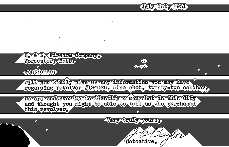
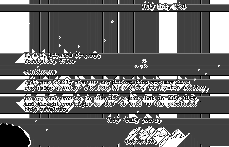
Cool horizontal/vertical overlay output
The output images look cool and show the interplay of the vertical and
horizontal seams, but it really is not useful for the algorithm, will
be removed in the next commit

diff --git a/src/libSeamCarve.c b/src/libSeamCarve.c
@@ -757,18 +757,18 @@ static int *seamCarve(int *imageVector, int imageWidth, int imageHeight)
 	fillSeamMatrixVertical(newImageSeams, smallImageWidth, smallImageHeight);
 	fillSeamMatrixHorizontal(newImageSeams2, smallImageWidth, smallImageHeight);
 
-	// for (int j = 0; j < smallImageHeight; ++j) {
-	// 	for (int i = 0; i < smallImageWidth; ++i) {
-	// 		currentPixel = (j * smallImageWidth) + i;
-	// 		if ((newImageSeams[currentPixel] == 0) || (newImageSeams2[currentPixel] == 0)) {
-	// 			newImageSeams[currentPixel] = 0;
-	// 			//newImageSeams2[currentPixel] = newImageSeams[currentPixel];
-	// 		} else {
-	// 			newImageSeams[currentPixel] = ((newImageSeams[currentPixel] + newImageSeams2[currentPixel]) / 2);
-	// 			newImageSeams2[currentPixel] = newImageSeams[currentPixel];
-	// 		}
-	// 	}
-	// }
+	for (int j = 0; j < smallImageHeight; ++j) {
+		for (int i = 0; i < smallImageWidth; ++i) {
+			currentPixel = (j * smallImageWidth) + i;
+			if ((newImageSeams[currentPixel] == 0) || (newImageSeams2[currentPixel] == 0)) {
+				newImageSeams[currentPixel] = 0;
+				//newImageSeams2[currentPixel] = newImageSeams[currentPixel];
+			} else {
+				newImageSeams[currentPixel] = ((newImageSeams[currentPixel] + newImageSeams2[currentPixel]) / 2);
+				newImageSeams2[currentPixel] = newImageSeams[currentPixel];
+			}
+		}
+	}
 
 	int verticalSeamCost = findSeamsVertical(newImageSeams, smallImageWidth, smallImageHeight, newImage);
 	int horizontalSeamCost = findSeamsHorizontal(newImageSeams2, smallImageWidth, smallImageHeight, newImage);
